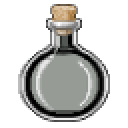
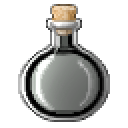
fixed saturation

diff --git a/src/app/globals.css b/src/app/globals.css
@@ -139,14 +139,6 @@ h3 {
     margin-bottom: 1.5rem;
 }
 
-.screen-eyebrow {
-    font-family: var(--font-bitpotion);
-    font-size: clamp(0.6rem, 1.4vw, 0.9rem);
-    letter-spacing: 0.35em;
-    color: #8d8477;
-    text-transform: uppercase;
-}
-
 .screen-title {
     font-family: var(--font-lamano);
     font-size: clamp(1.6rem, 5.5vw, 3.4rem);
@@ -160,23 +152,15 @@ h3 {
 
 .screen-subtitle {
     font-family: var(--font-bitpotion);
-    font-size: clamp(1rem, 2.2vw, 1.4rem);
+    font-size: clamp(2rem, 4.4vw, 2.8rem);
     letter-spacing: 0.2em;
     color: #cfc7b8;
     text-transform: uppercase;
     margin-top: 0.5rem;
 }
 
-.screen-price {
-    display: inline-block;
-    font-family: var(--font-bitpotion);
-    font-size: clamp(0.9rem, 1.8vw, 1.15rem);
-    letter-spacing: 0.15em;
-    color: var(--gold);
-    text-transform: uppercase;
-    border: 1px solid rgba(224, 168, 62, 0.4);
-    padding: 0.15rem 0.75rem;
-    margin-top: 0.6rem;
+.screen-subtitle-diamond {
+    color: #a855f7;
 }
 
 /* Grid */
@@ -229,9 +213,10 @@ h3 {
        positioned upper-left to match the light-source convention used everywhere else on the
        card (the frame's rim-lit outline, the emblem's/gloss's own upper-left highlight) — reads
        as the torchlight actually reaching into the card rather than every card being one flat,
-       uniformly dark rectangle. */
+       uniformly dark rectangle. Confined tight to the corner (fades out by ~10-12% of the card)
+       rather than washing across most of it, so the rest of the card stays solid black. */
     background:
-        radial-gradient(circle at 28% 18%, rgba(255, 150, 60, 0.16) 0%, transparent 60%),
+        radial-gradient(circle at 4% 4%, rgba(255, 150, 60, 0.35) 0%, transparent 12%),
         repeating-conic-gradient(rgba(255, 255, 255, 0.04) 0% 25%, transparent 0% 50%) 0 0 / 6px 6px,
         rgba(10, 8, 6, 0.92);
     padding: 1.25rem 0.9rem 0.85rem;
@@ -396,7 +381,7 @@ h3 {
     top: 0.4rem;
     left: 0.7rem;
     font-family: var(--font-bitpotion);
-    font-size: 2.1rem;
+    font-size: 2.3rem;
     color: #8d8477;
     text-shadow: 0 1px 0 rgba(0, 0, 0, 0.6);
 }
@@ -422,6 +407,32 @@ h3 {
     width: 100%;
     height: 100%;
     image-rendering: pixelated;
+}
+
+/* A plain translucent-black scrim, painted between .potion-art-base and .potion-art-tint so it
+   pre-darkens the backdrop the tint's overlay blend sees. overlay's "pass the tint through at
+   full saturation" zone is centered on 50% gray, but the bulb's flat interior fill sits at
+   ~93% white (rgb ~238) — at that brightness overlay's screen-toward-white branch compresses
+   *any* color into a pale pastel; even a fully saturated (255,0,0) red comes out around
+   (255,221,221) there. 46% black opacity brings 238 down to ~128 (238 * 0.54), landing almost
+   exactly on the pivot, so the tint actually reads as saturated across most of the visible fill
+   instead of just at the few darker shading accents baked into the art. Shares .potion-art-tint's
+   exact mask/clip-path/transform below so it only darkens the same region the tint colors. */
+.potion-art-fill-shade {
+    position: absolute;
+    inset: 0;
+    width: 100%;
+    height: 100%;
+    background: rgba(0, 0, 0, 0.46);
+    -webkit-mask-image: url("/assets/potion.png");
+    mask-image: url("/assets/potion.png");
+    -webkit-mask-size: contain;
+    mask-size: contain;
+    -webkit-mask-repeat: no-repeat;
+    mask-repeat: no-repeat;
+    clip-path: inset(37% 0 0 0);
+    transform: translate(1px, 1px) scaleX(0.92) scaleY(0.89);
+    transform-origin: center;
 }
 
 /* mix-blend-mode: overlay — a proper three-zone colorize rather than a uniform darken-toward-
@@ -466,7 +477,7 @@ h3 {
        offset is applied in unscaled pixels (transform functions apply right-to-left) — a couple
        of pixels down/right, not scaled down too — nudging the fill off-center from the outline
        for a cheap fake-3D/embossed look. */
-    transform: translate(2px, 2px) scaleX(0.97) scaleY(0.94);
+    transform: translate(1px, 1px) scaleX(0.92) scaleY(0.89);
     transform-origin: center;
 }
 
@@ -515,7 +526,7 @@ h3 {
 
 .potion-name {
     font-family: var(--font-bitpotion);
-    font-size: 2.85rem;
+    font-size: 3.1rem;
     line-height: 0.7;
     /* No min-height reservation for a second line on purpose: it kept flavor/spirit rows
        aligned across a row when names wrap unevenly, but it also left a visible gap under
@@ -533,7 +544,7 @@ h3 {
 
 .potion-flavor {
     font-family: var(--font-bitpotion);
-    font-size: 2.03rem;
+    font-size: 2.2rem;
     line-height: 0.7;
     color: #cfc7b8;
     margin-top: 0.15rem;
@@ -541,7 +552,7 @@ h3 {
 
 .potion-base {
     font-family: var(--font-bitpotion);
-    font-size: 1.8rem;
+    font-size: 2rem;
     line-height: 0.7;
     letter-spacing: 0.15em;
     color: #e8dfcd;
@@ -560,17 +571,17 @@ h3 {
 
 /* Scrollbox */
 .scrollbox {
-    border: 2px solid #4c2f7a;
+    border: 5px solid #4c2f7a;
     background: rgba(10, 8, 6, 0.6);
     padding: 0.75rem 1.25rem;
     margin-top: 1.5rem;
-    min-height: 2.75rem;
+    min-height: 5rem;
     display: flex;
     align-items: center;
     justify-content: center;
     text-align: center;
     font-family: var(--font-bitpotion);
-    font-size: clamp(1rem, 2vw, 1.3rem);
+    font-size: clamp(2rem, 4vw, 2.6rem);
     color: #d8cff0;
     letter-spacing: 0.05em;
 }
@@ -642,17 +653,4 @@ h3 {
     to {
         opacity: 1;
     }
-}
-
-.sample-data-badge {
-    position: fixed;
-    bottom: 0.75rem;
-    right: 0.75rem;
-    z-index: 10;
-    font-family: var(--font-bitpotion);
-    font-size: 0.9rem;
-    letter-spacing: 0.05em;
-    color: #171310;
-    background: var(--gold);
-    padding: 0.25rem 0.6rem;
 }

diff --git a/src/components/icons.tsx b/src/components/icons.tsx
@@ -32,6 +32,12 @@ export function PotionArt({
     return (
         <span className={className}>
             <img src={POTION_ART_SRC} alt="" aria-hidden="true" className="potion-art-base" />
+            {/* Pre-darkens the fill area before the tint blends against it — see the long
+                comment on .potion-art-fill-shade in globals.css for why: overlay's "maximum
+                tint" only happens near 50% gray, and the bulb's flat interior sits at ~93%
+                white, so without this the tint stayed washed out no matter how saturated the
+                accent color was. */}
+            <span aria-hidden="true" className="potion-art-fill-shade" />
             <span aria-hidden="true" className="potion-art-tint" style={{ backgroundColor: color }} />
             {emblem && (
                 // A small SVG just for the emblem (not plain HTML text) so it scales fluidly
@@ -61,9 +67,12 @@ export function PotionArt({
                             color overlay itself reads as a chunky pixel/mosaic tint rather than
                             smooth vector color — matching the rest of the site's pixel-art look
                             instead of looking anti-aliased next to it. patternUnits is in the
-                            same 128x128 user-space as everything else here. */}
+                            same 128x128 user-space as everything else here. Squares cover 3.4 of
+                            each 4-unit tile (85%, thin gaps) rather than half-and-half, so more
+                            of the glyph actually gets the color blend and less shows through
+                            untinted — reads as a stronger, more saturated tint overall. */}
                         <pattern id={emblemMosaicId} width="4" height="4" patternUnits="userSpaceOnUse">
-                            <rect x="0" y="0" width="2.6" height="2.6" fill={color} />
+                            <rect x="0" y="0" width="3.4" height="3.4" fill={color} />
                         </pattern>
                     </defs>
                     <text

diff --git a/src/components/ScreenHeader.tsx b/src/components/ScreenHeader.tsx
@@ -1,24 +1,18 @@
-export default function ScreenHeader({
-    eyebrow = "Syntax Error",
-    title,
-    subtitle,
-    price,
-}: {
-    eyebrow?: string;
-    title: string;
-    subtitle?: string;
-    price?: string;
-}) {
+export default function ScreenHeader({ title, subtitle }: { title: string; subtitle?: string }) {
     return (
         <header className="screen-header">
-            <p className="screen-eyebrow">{eyebrow}</p>
             <h2 className="screen-title">{title}</h2>
             {subtitle && (
                 <p className="screen-subtitle">
-                    <span aria-hidden="true">◆</span> {subtitle} <span aria-hidden="true">◆</span>
+                    <span className="screen-subtitle-diamond" aria-hidden="true">
+                        ◆
+                    </span>{" "}
+                    {subtitle}{" "}
+                    <span className="screen-subtitle-diamond" aria-hidden="true">
+                        ◆
+                    </span>
                 </p>
             )}
-            {price && <p className="screen-price">{price} each</p>}
         </header>
     );
 }

diff --git a/src/app/page.tsx b/src/app/page.tsx
@@ -6,14 +6,13 @@ import Background from "../components/Background";
 // Mobile/generic route: every screen stacked in order, page scrolls normally. See /tv for the
 // no-scroll, auto-cycling kiosk version — both share MenuScreen/MenuGrid/PotionCard.
 export default async function HomePage() {
-    const { items, messages, screens, isSampleData } = await getMenuData();
+    const { items, messages, screens } = await getMenuData();
 
     return (
         <>
             <Background />
             <main className="mobile-menu">
                 <div className="mobile-hero">
-                    <p className="screen-eyebrow">Syntax Error</p>
                     <h1 className="mobile-title">Menu</h1>
                 </div>
                 {screens.map((screen) => (
@@ -25,7 +24,6 @@ export default async function HomePage() {
                 ))}
                 <Scrollbox messages={messages.map((message) => message.text)} />
             </main>
-            {isSampleData && <p className="sample-data-badge">Sample data — connect the Google Sheet</p>}
         </>
     );
 }

diff --git a/src/app/tv/page.tsx b/src/app/tv/page.tsx
@@ -7,7 +7,7 @@ import Background from "../../components/Background";
 // ?screen=<index> or ?paused=1 (see ScreenCarousel). Suspense is required here because
 // ScreenCarousel reads useSearchParams(), which Next.js requires to be wrapped.
 export default async function TvPage() {
-    const { items, messages, screens, isSampleData } = await getMenuData();
+    const { items, messages, screens } = await getMenuData();
 
     return (
         <>
@@ -15,7 +15,6 @@ export default async function TvPage() {
             <Suspense fallback={null}>
                 <ScreenCarousel screens={screens} items={items} messages={messages} />
             </Suspense>
-            {isSampleData && <p className="sample-data-badge">Sample data — connect the Google Sheet</p>}
         </>
     );
 }

diff --git a/src/app/sampleData.ts b/src/app/sampleData.ts
@@ -348,9 +348,8 @@ export const sampleRecipes: Recipe[] = [
 ];
 
 export const sampleMessages: Message[] = [
-    { order: 1, text: "New arcade cabinet now live upstairs!", active: true },
-    { order: 2, text: "Happy hour 18:00–20:00 — 20% off all Elixirs", active: true },
-    { order: 3, text: "Ask your bartender about tonight's secret menu item", active: true },
+    { order: 1, text: "HAPPY HOUR BEER / CIDER / WINE / SPARKLING / SODA TO 23:00!", active: true },
+    { order: 3, text: "DON'T FORGET TO PARTICIPATE IN THE QUIZ WALK!", active: true },
 ];
 
 export const sampleScreens: Screen[] = [

diff --git a/src/components/MenuScreen.tsx b/src/components/MenuScreen.tsx
@@ -15,7 +15,7 @@ export default function MenuScreen({
 }) {
     return (
         <section className="menu-screen">
-            <ScreenHeader title={screen.title} subtitle={screen.subtitle} price={screen.price} />
+            <ScreenHeader title={screen.title} subtitle={screen.subtitle} />
             <MenuGrid items={items} fitToViewport={fitToViewport} />
         </section>
     );
